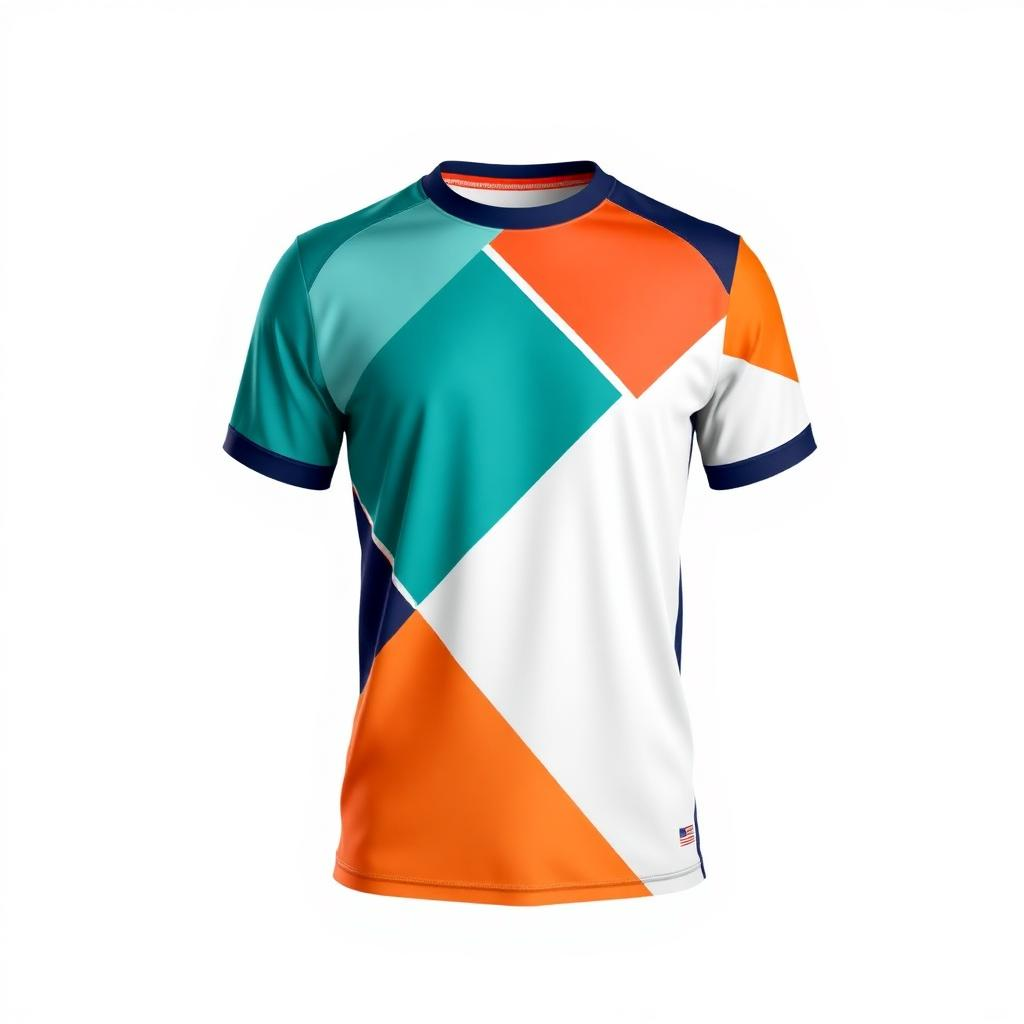
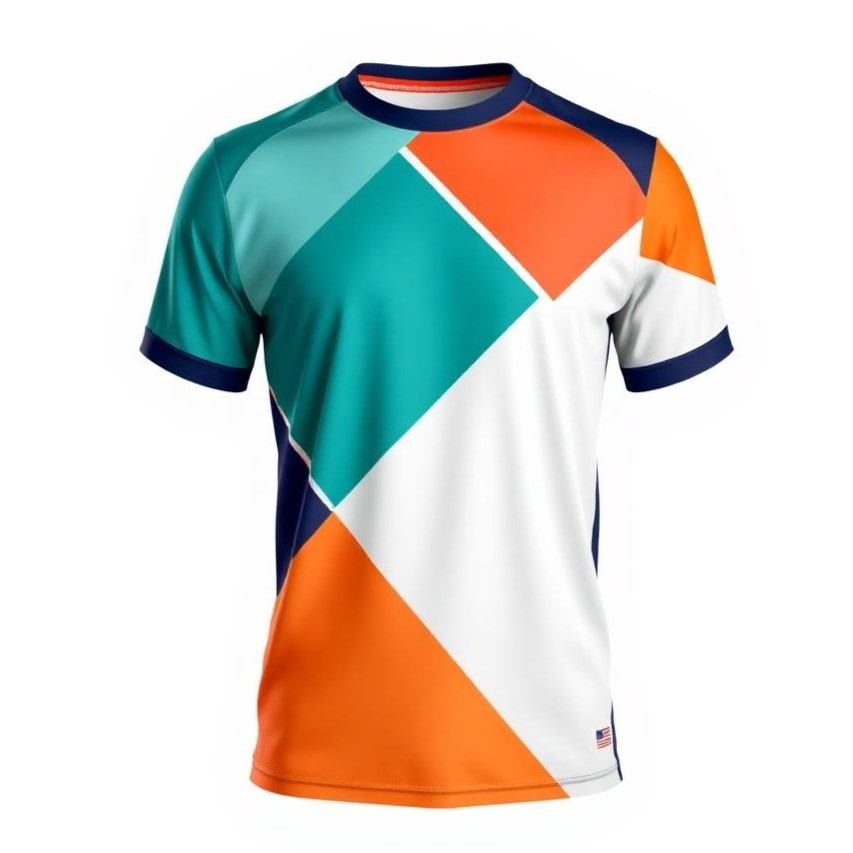
fdff

Changed region(s): [[0.1524, 0.061, 0.8839, 0.9754], [0.6096, 0.4572, 0.7011, 0.7315], [0.7011, 0.7315, 0.7315, 0.762]]

diff --git a/src/components/ProductCarousel.tsx b/src/components/ProductCarousel.tsx
@@ -1,5 +1,6 @@
 import { Link } from "@tanstack/react-router";
-import { ArrowUpRight } from "lucide-react";
+import { ArrowUpRight, X, ZoomIn } from "lucide-react";
+import { useEffect, useState } from "react";
 import {
   Carousel,
   CarouselContent,
@@ -17,45 +18,95 @@ export type CarouselProduct = {
 };
 
 export function ProductCarousel({ items }: { items: CarouselProduct[] }) {
+  const [zoomed, setZoomed] = useState<CarouselProduct | null>(null);
+
+  useEffect(() => {
+    if (!zoomed) return;
+    const onKey = (e: KeyboardEvent) => {
+      if (e.key === "Escape") setZoomed(null);
+    };
+    document.addEventListener("keydown", onKey);
+    document.body.style.overflow = "hidden";
+    return () => {
+      document.removeEventListener("keydown", onKey);
+      document.body.style.overflow = "";
+    };
+  }, [zoomed]);
+
   if (items.length === 0) return null;
 
   return (
-    <Carousel opts={{ align: "start", loop: true }} className="w-full">
-      <CarouselContent className="-ml-4">
-        {items.map((item, i) => (
-          <CarouselItem
-            key={`${item.slug}-${item.hash ?? "cat"}-${i}`}
-            className="basis-4/5 pl-4 sm:basis-1/2 lg:basis-1/3 xl:basis-1/4"
-          >
-            <Link
-              to="/category/$slug"
-              params={{ slug: item.slug }}
-              hash={item.hash}
-              className="group block"
+    <>
+      <Carousel opts={{ align: "start", loop: true }} className="w-full">
+        <CarouselContent className="-ml-4">
+          {items.map((item, i) => (
+            <CarouselItem
+              key={`${item.slug}-${item.hash ?? "cat"}-${i}`}
+              className="basis-4/5 pl-4 sm:basis-1/2 lg:basis-1/3 xl:basis-1/4"
             >
-              <div className="relative aspect-square overflow-hidden bg-secondary/60">
-                <img
-                  src={item.image}
-                  alt={item.title}
-                  loading="lazy"
-                  className="h-full w-full object-contain p-6 transition-transform duration-500 group-hover:scale-105"
-                />
-                <span className="absolute right-3 top-3 flex h-8 w-8 items-center justify-center bg-background/0 text-foreground opacity-0 transition-opacity group-hover:bg-background/90 group-hover:opacity-100">
-                  <ArrowUpRight className="h-4 w-4" />
-                </span>
+              <div className="group block">
+                <div className="relative aspect-square overflow-hidden bg-secondary/60">
+                  <button
+                    type="button"
+                    onClick={() => setZoomed(item)}
+                    className="block h-full w-full cursor-zoom-in"
+                    aria-label={`View ${item.title} larger`}
+                  >
+                    <img
+                      src={item.image}
+                      alt={item.title}
+                      loading="lazy"
+                      className="h-full w-full object-cover transition-transform duration-500 group-hover:scale-105"
+                    />
+                  </button>
+                  <span className="pointer-events-none absolute right-3 top-3 flex h-8 w-8 items-center justify-center bg-background/0 text-foreground opacity-0 transition-opacity group-hover:bg-background/90 group-hover:opacity-100">
+                    <ZoomIn className="h-4 w-4" />
+                  </span>
+                </div>
+                <Link
+                  to="/category/$slug"
+                  params={{ slug: item.slug }}
+                  hash={item.hash}
+                  className="block pt-4"
+                >
+                  <p className="eyebrow text-muted-foreground">{item.subtitle}</p>
+                  <h3 className="mt-1 inline-flex items-center gap-1 text-sm font-semibold uppercase tracking-wide group-hover:text-brand">
+                    {item.title}
+                    <ArrowUpRight className="h-3.5 w-3.5" />
+                  </h3>
+                </Link>
               </div>
-              <div className="pt-4">
-                <p className="eyebrow text-muted-foreground">{item.subtitle}</p>
-                <h3 className="mt-1 text-sm font-semibold uppercase tracking-wide group-hover:text-brand">
-                  {item.title}
-                </h3>
-              </div>
-            </Link>
-          </CarouselItem>
-        ))}
-      </CarouselContent>
-      <CarouselPrevious className="left-2 lg:-left-12" />
-      <CarouselNext className="right-2 lg:-right-12" />
-    </Carousel>
+            </CarouselItem>
+          ))}
+        </CarouselContent>
+        <CarouselPrevious className="left-2 lg:-left-12" />
+        <CarouselNext className="right-2 lg:-right-12" />
+      </Carousel>
+
+      {zoomed && (
+        <div
+          className="fixed inset-0 z-50 flex items-center justify-center bg-background/90 p-4 backdrop-blur-sm"
+          onClick={() => setZoomed(null)}
+          role="dialog"
+          aria-modal="true"
+          aria-label={zoomed.title}
+        >
+          <button
+            type="button"
+            onClick={() => setZoomed(null)}
+            className="absolute right-4 top-4 flex h-10 w-10 items-center justify-center bg-background/90 text-foreground hover:bg-background"
+            aria-label="Close"
+          >
+            <X className="h-5 w-5" />
+          </button>
+          <img
+            src={zoomed.image}
+            alt={zoomed.title}
+            onClick={(e) => e.stopPropagation()}
+            className="max-h-[90vh] max-w-[90vw] object-contain"
+          />
+        </div>
+      )}
+    </>
   );
 }

diff --git a/src/components/ProductCard.tsx b/src/components/ProductCard.tsx
@@ -1,5 +1,6 @@
 import { inquireWhatsappLink } from "@/lib/catalog";
-import { ArrowUpRight } from "lucide-react";
+import { ArrowUpRight, X } from "lucide-react";
+import { useEffect, useState } from "react";
 
 type Props = {
   name: string;
@@ -9,14 +10,34 @@ type Props = {
 };
 
 export function ProductCard({ name, sku, description, image }: Props) {
+  const [open, setOpen] = useState(false);
+
+  useEffect(() => {
+    if (!open) return;
+    const onKey = (e: KeyboardEvent) => {
+      if (e.key === "Escape") setOpen(false);
+    };
+    document.addEventListener("keydown", onKey);
+    document.body.style.overflow = "hidden";
+    return () => {
+      document.removeEventListener("keydown", onKey);
+      document.body.style.overflow = "";
+    };
+  }, [open]);
+
   return (
     <article className="group flex flex-col">
-      <div className="relative aspect-square overflow-hidden bg-secondary/60">
+      <button
+        type="button"
+        onClick={() => setOpen(true)}
+        className="relative aspect-square cursor-zoom-in overflow-hidden bg-secondary/60"
+        aria-label={`View ${name} larger`}
+      >
         <img
           src={image}
           alt={name}
           loading="lazy"
-          className="h-full w-full object-contain p-6 transition-transform duration-500 group-hover:scale-105"
+          className="h-full w-full object-cover transition-transform duration-500 group-hover:scale-105"
           onError={(e) => {
             (e.currentTarget as HTMLImageElement).style.opacity = "0.15";
           }}
@@ -24,7 +45,7 @@ export function ProductCard({ name, sku, description, image }: Props) {
         <span className="absolute left-3 top-3 bg-background/90 px-2 py-1 text-[10px] font-mono tracking-wider text-foreground">
           {sku}
         </span>
-      </div>
+      </button>
       <div className="flex flex-1 flex-col gap-2 pt-4">
         <h3 className="text-sm font-semibold uppercase tracking-wide">{name}</h3>
         <p className="text-xs text-muted-foreground line-clamp-2">{description}</p>
@@ -36,6 +57,31 @@ export function ProductCard({ name, sku, description, image }: Props) {
           Inquire about this product <ArrowUpRight className="h-3 w-3" />
         </a>
       </div>
+
+      {open && (
+        <div
+          className="fixed inset-0 z-50 flex items-center justify-center bg-background/90 p-4 backdrop-blur-sm"
+          onClick={() => setOpen(false)}
+          role="dialog"
+          aria-modal="true"
+          aria-label={name}
+        >
+          <button
+            type="button"
+            onClick={() => setOpen(false)}
+            className="absolute right-4 top-4 flex h-10 w-10 items-center justify-center bg-background/90 text-foreground hover:bg-background"
+            aria-label="Close"
+          >
+            <X className="h-5 w-5" />
+          </button>
+          <img
+            src={image}
+            alt={name}
+            onClick={(e) => e.stopPropagation()}
+            className="max-h-[90vh] max-w-[90vw] object-contain"
+          />
+        </div>
+      )}
     </article>
   );
 }